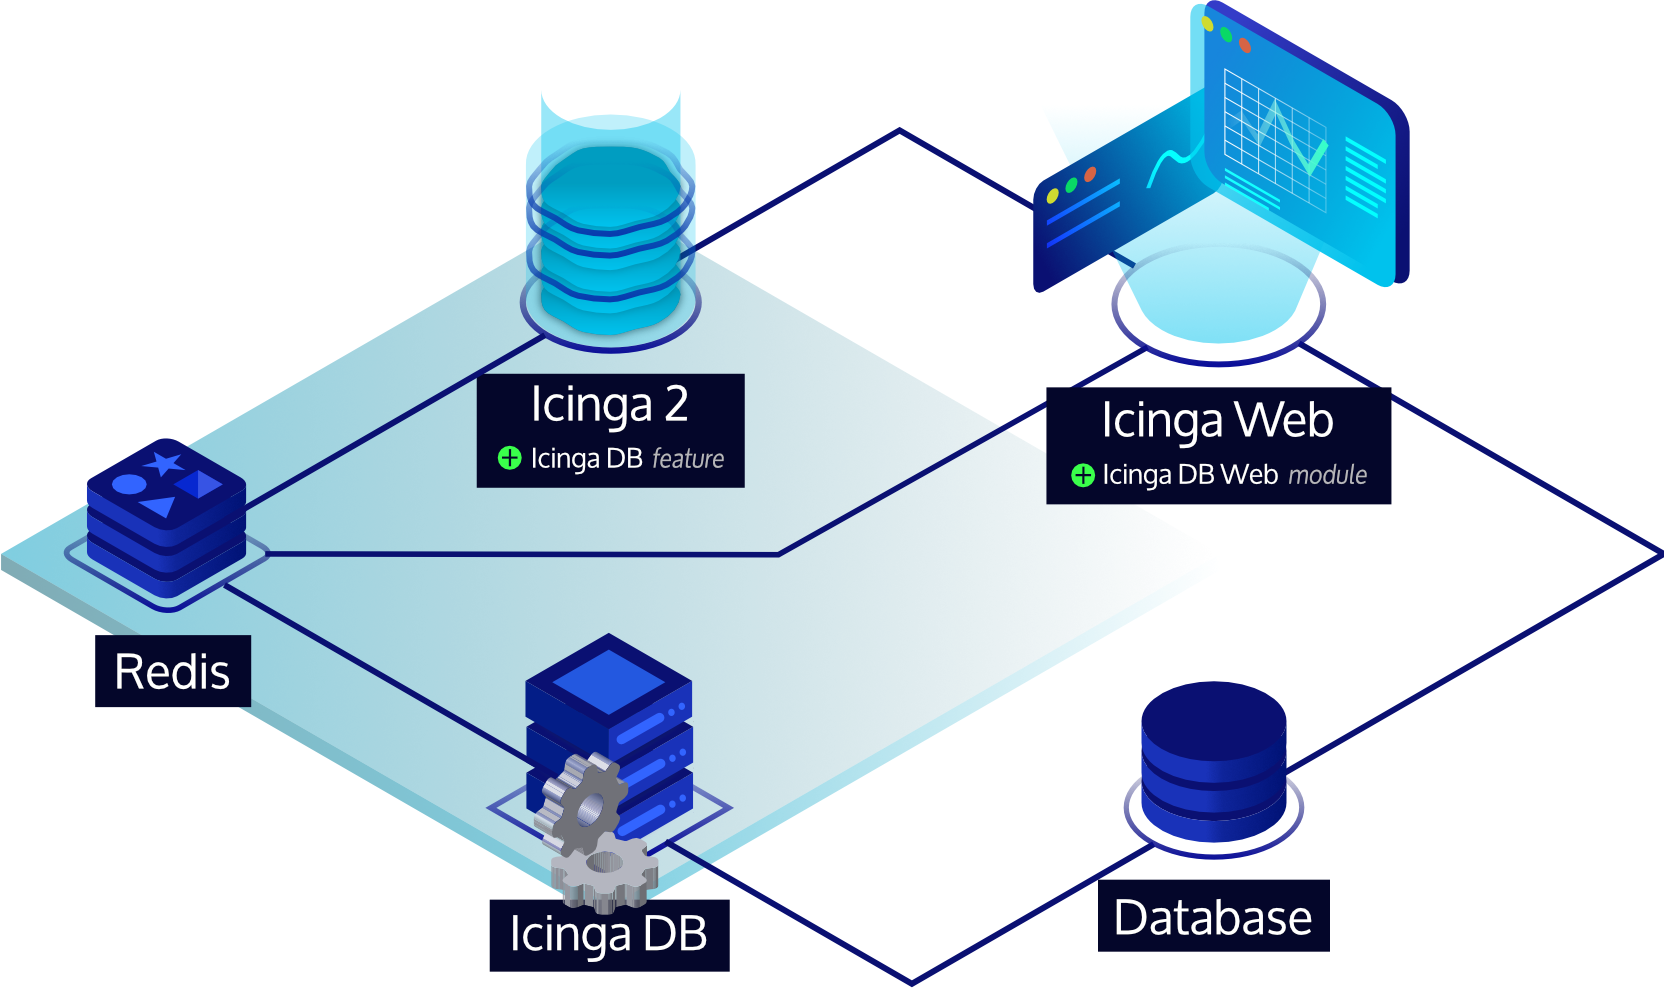
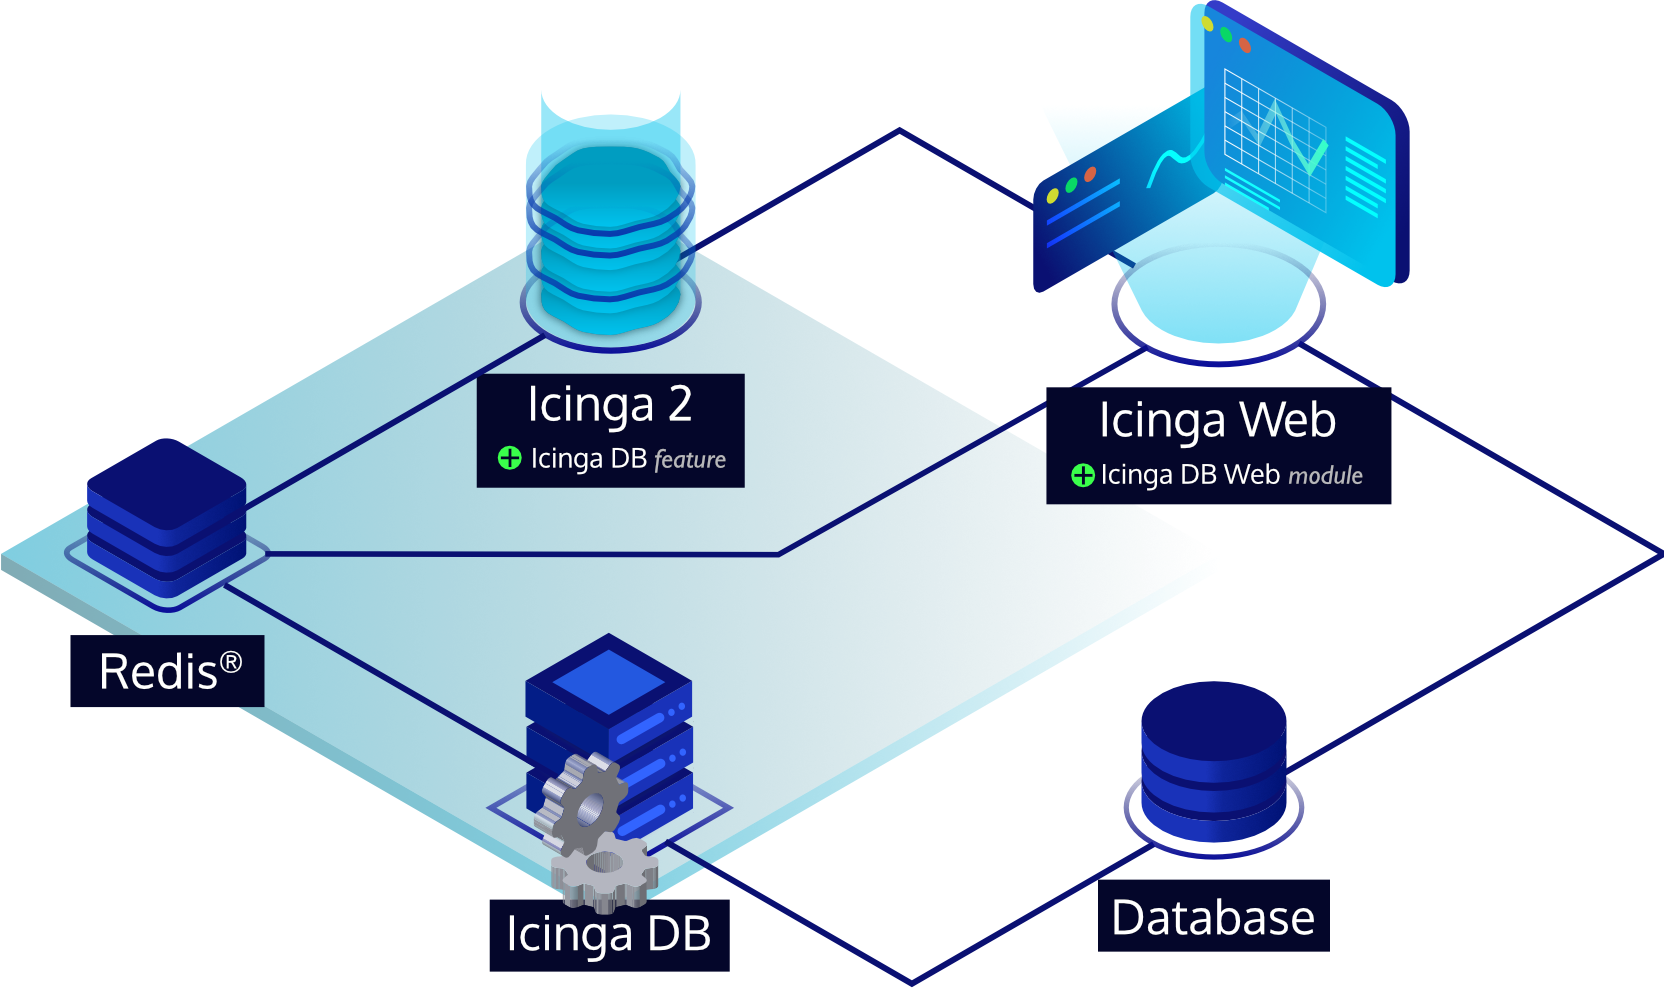
Docs: Account Redis' trademark policy
See https://redis.io/legal/trademark-policy/

diff --git a/README.md b/README.md
@@ -7,13 +7,13 @@
 Icinga DB is a set of components for publishing, synchronizing and
 visualizing monitoring data in the Icinga ecosystem, consisting of:
 
-* Icinga DB Web which connects to both a Redis server and a database to view and work with
+* Icinga DB Web which connects to both a Redis®[\*](doc/TRADEMARKS.md#redis) server and a database to view and work with
   most up-to-date monitoring data
 * Icinga 2 with its [Icinga DB feature](https://icinga.com/docs/icinga-2/latest/doc/14-features/#icinga-db) enabled,
-  responsible for publishing the data to the Redis server, i.e. configuration and its runtime updates, check results, state changes,
-  downtimes, acknowledgements, notifications, and other events such as flapping
+  responsible for publishing the data to the Redis® server, i.e. configuration and its runtime updates, check results,
+  state changes, downtimes, acknowledgements, notifications, and other events such as flapping
 * And the [Icinga DB daemon](https://icinga.com/docs/icinga-db),
-  which synchronizes the data between the Redis server and the database
+  which synchronizes the data between the Redis® server and the database
 
 ![Icinga DB Architecture](doc/res/icingadb-architecture.png)
 

diff --git a/doc/03-Configuration.md b/doc/03-Configuration.md
@@ -15,17 +15,17 @@ Connection configuration for the database to which Icinga DB synchronizes monito
 2. Configure the resource you just created as the database connection for the Icinga DB Web module using the
    `Configuration → Modules → icingadb → Database` menu.
 
-## Redis Configuration
+## Redis® Configuration
 
-Connection configuration for the Redis server where Icinga 2 writes check results.
+Connection configuration for the Redis® server where Icinga 2 writes check results.
 This data is used to display the latest state information in Icinga DB Web.
 
-1. Configure the connection to the Redis server through the `Configuration → Modules → icingadb → Redis` menu.
+1. Configure the connection to the Redis® server through the `Configuration → Modules → icingadb → Redis` menu.
 
 !!! info
 
     If you are running a high-availability Icinga 2 setup,
-    also configure the secondary master's Redis connection details.
+    also configure the secondary master's Redis® connection details.
     Icinga DB Web then uses this connection if the primary one is not available.
 
 ## Command Transport Configuration

diff --git a/doc/01-About.md b/doc/01-About.md
@@ -3,12 +3,13 @@
 Icinga DB is a set of components for publishing, synchronizing and
 visualizing monitoring data in the Icinga ecosystem, consisting of:
 
-* Icinga DB Web which connects to both a Redis server and a database to view and work with monitoring data
+* Icinga DB Web which connects to both a Redis®[\*](TRADEMARKS.md#redis) server and 
+  a database to view and work with monitoring data
 * Icinga 2 with its [Icinga DB feature](https://icinga.com/docs/icinga-2/latest/14-features/#icinga-db) enabled,
   responsible for publishing monitoring configuration, check results,
-  states changes and history items to the Redis server
+  states changes and history items to the Redis® server
 * And the [Icinga DB daemon](https://icinga.com/docs/icinga-db/latest/01-About/),
-  which synchronizes monitoring data between the Redis server and the database
+  which synchronizes monitoring data between the Redis® server and the database
 
 ![Icinga DB Architecture](res/icingadb-architecture.png)
 

diff --git a/doc/TRADEMARKS.md b/doc/TRADEMARKS.md
@@ -1,0 +1,13 @@
+# Third-party Trademarks
+
+All trademarks, logos, and brand names are the property of their respective owners.
+Any mention of company, product, or service names in our documentations, product descriptions,
+or websites is solely for identification purposes. The use of these names, trademarks,
+and brands does not imply endorsement. This document acknowledges trademarks of companies and products,
+which are the property of their respective owners, whether registered or unregistered.
+
+## Redis®
+
+Redis is a registered trademark of Redis Ltd. Any rights therein are reserved to Redis Ltd.
+Any use by Icinga GmbH is for referential purposes only and does not indicate any sponsorship,
+endorsement or affiliation between Redis and Icinga GmbH.
